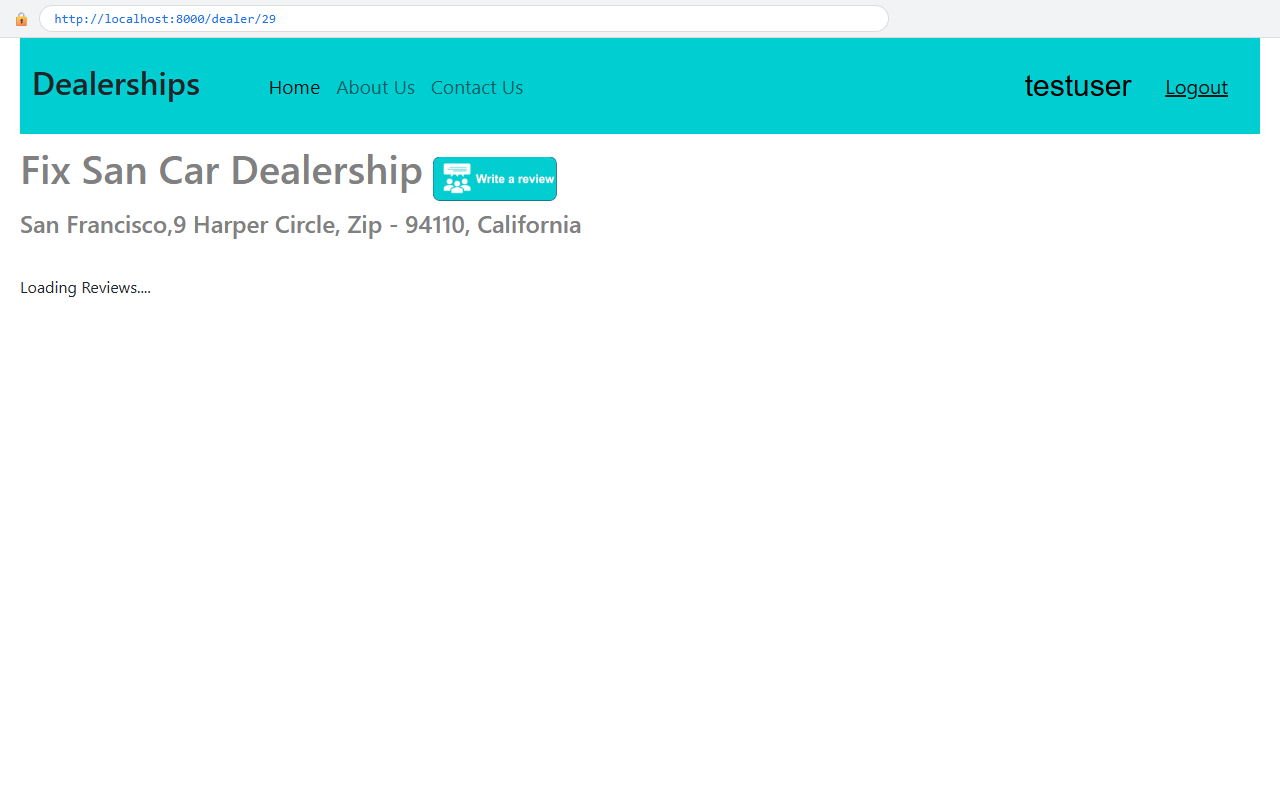
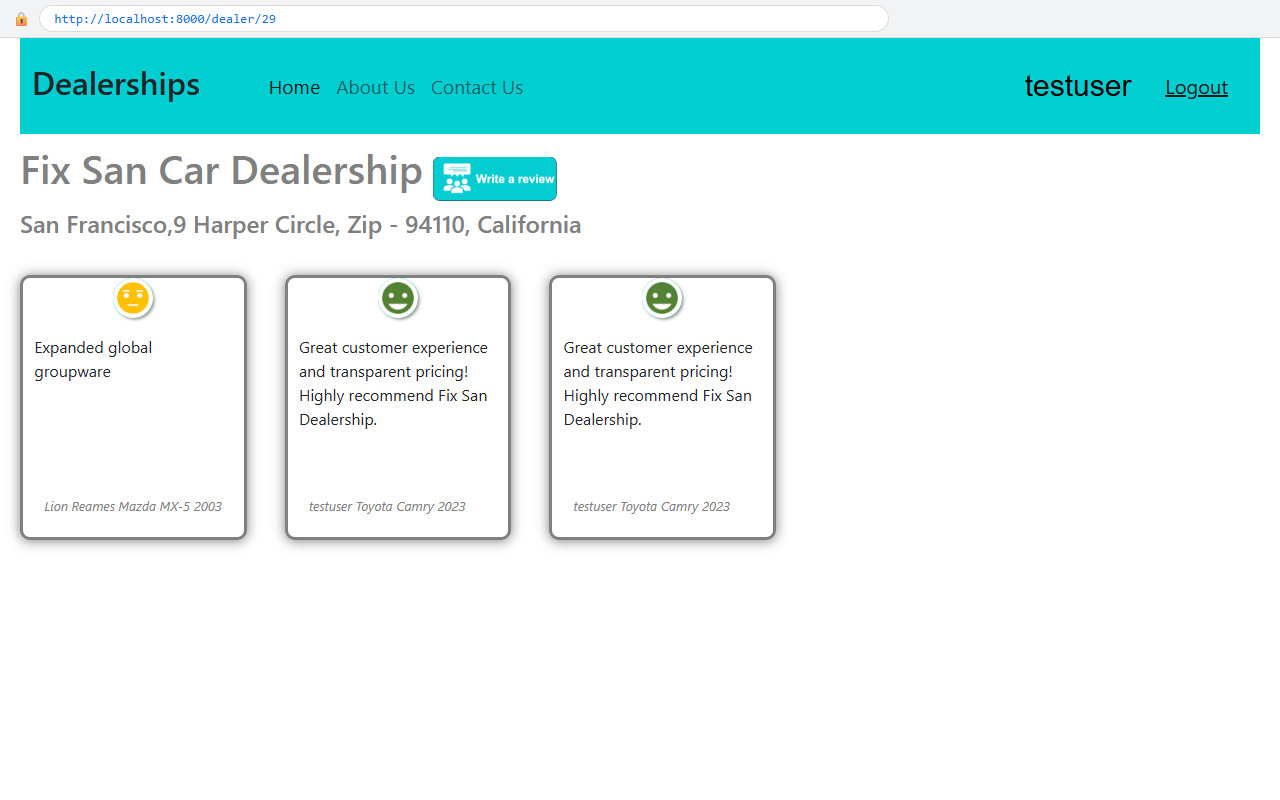
Update About and Contact pages, README title, CI workflow with separate Python and JS lint jobs, and deployed screenshots

Changed region(s): [[0.0, 0.3125, 0.625, 0.6875]]

diff --git a/server/frontend/static/About.html b/server/frontend/static/About.html
@@ -1,13 +1,15 @@
 <!DOCTYPE html>
-<html lang="en">
+<html>
 <head>
   <meta charset="UTF-8">
-  <meta name="viewport" content="width=device-width, initial-scale=1.0">
-  <title>About Us - Dealerships</title>
-  <link rel="stylesheet" href="/static/bootstrap.min.css">
+  <link rel="stylesheet" href="static/style.css">
+  <link rel="stylesheet" href="static/bootstrap.min.css">
   <link rel="stylesheet" href="/static/style.css">
+  <link rel="stylesheet" href="/static/bootstrap.min.css">
+  <link rel="stylesheet" href="style.css">
+  <link rel="stylesheet" href="bootstrap.min.css">
+  <link href="https://cdn.jsdelivr.net/npm/bootstrap@5.0.2/dist/css/bootstrap.min.css" rel="stylesheet">
 </head>
-<body>
 <div>
   <nav class="navbar navbar-expand-lg navbar-light" style="background-color:darkturquoise; height: 1in;">
     <div class="container-fluid">
@@ -20,7 +22,7 @@
           <li class="nav-item">
             <a class="nav-link" style="font-size: larger;" aria-current="page" href="/">Home</a>
           </li>
-          <li class="nav-item">
+          <li class="nav-item active">
             <a class="nav-link active" style="font-size: larger;" href="/about">About Us</a>
           </li>
           <li class="nav-item">
@@ -31,43 +33,42 @@
     </div>
   </nav>
   
-  <div class="card" style="width: 80%;margin: auto; margin-top:5%;">
-    <div class="banner" name="about-header" style="text-align: center; padding: 20px;">
-      <h1>About Us</h1>
-      <p style="font-size: 1.1rem; color: #333;">Welcome to Best Cars dealership, home to the finest vehicles and top-tier customer care. Our team of seasoned automotive specialists is committed to helping you find your dream car with total confidence and peace of mind.</p>
-    </div>
-    <div style="display: flex;flex-direction: row; justify-content: space-around; margin: 20px auto; width: 95%;">
+    <div class="card" style="width: 80%;margin: auto; margin-top:5%;">
+      <div class="banner" name="about-header" style="text-align: center; padding: 20px;">
+        <h1>About Us</h1>
+        <p style="font-size: 1.1rem; color: #333;">Welcome to Best Cars dealership, home to the best cars in North America. We deal in the sale of domestic and imported cars at reasonable prices. Explore our dealership online to learn more about our vehicles and services, and get in touch with our expert team!</p>
+      </div>
+      <div style="display: flex;flex-direction: row; margin:auto; width: 95%; justify-content: space-around;">
       <div class="card" style="width: 30%;">
         <img class="card-img-top" src="/static/person.png" alt="Alex Mercer">
         <div class="card-body">
-          <h4 class="title">Alex Mercer</h4>
-          <p class="text-muted"><strong>General Manager</strong></p>
-          <p class="card-text">Alex brings over 15 years of automotive leadership, driving our customer-first ethos and nationwide operations with excellence.</p>
-          <p><a href="mailto:alex.mercer@dealerships.com">alex.mercer@dealerships.com</a></p>
+          <p class="title">Alex Mercer</p>
+          <p><strong>General Manager</strong></p>
+          <p class="card-text">Alex has over 15 years of automotive leadership experience, overseeing operations and nationwide sales excellence.</p>
+          <p>alex.mercer@dealerships.com</p>
         </div>
       </div>
 
       <div class="card" style="width: 30%;">
         <img class="card-img-top" src="/static/person.png" alt="Sophia Vance">
         <div class="card-body">
-          <h4 class="title">Sophia Vance</h4>
-          <p class="text-muted"><strong>Head of Customer Experience</strong></p>
-          <p class="card-text">Sophia ensures every driver leaves with satisfaction, managing relations and providing comprehensive post-purchase support.</p>
-          <p><a href="mailto:sophia.vance@dealerships.com">sophia.vance@dealerships.com</a></p>
+          <p class="title">Sophia Vance</p>
+          <p><strong>Head of Customer Experience</strong></p>
+          <p class="card-text">Sophia ensures every driver enjoys complete satisfaction with dedicated post-purchase and consultation support.</p>
+          <p>sophia.vance@dealerships.com</p>
         </div>
       </div>
 
       <div class="card" style="width: 30%;">
         <img class="card-img-top" src="/static/person.png" alt="Marcus Bennett">
         <div class="card-body">
-          <h4 class="title">Marcus Bennett</h4>
-          <p class="text-muted"><strong>Lead Vehicle Consultant</strong></p>
-          <p class="card-text">Marcus is an expert in car specs, certified pre-owned selections, and tailoring models to individual customer lifestyles.</p>
-          <p><a href="mailto:marcus.bennett@dealerships.com">marcus.bennett@dealerships.com</a></p>
+          <p class="title">Marcus Bennett</p>
+          <p><strong>Lead Vehicle Consultant</strong></p>
+          <p class="card-text">Marcus is an expert in car specifications, certified pre-owned selections, and matching drivers with their dream vehicles.</p>
+          <p>marcus.bennett@dealerships.com</p>
         </div>
       </div>
     </div>
-  </div>
+    </div>
 </div>
-</body>
 </html>

diff --git a/server/frontend/static/Contact.html b/server/frontend/static/Contact.html
@@ -1,13 +1,15 @@
 <!DOCTYPE html>
-<html lang="en">
+<html>
 <head>
   <meta charset="UTF-8">
-  <meta name="viewport" content="width=device-width, initial-scale=1.0">
-  <title>Contact Us - Dealerships</title>
-  <link rel="stylesheet" href="/static/bootstrap.min.css">
+  <link rel="stylesheet" href="static/style.css">
+  <link rel="stylesheet" href="static/bootstrap.min.css">
   <link rel="stylesheet" href="/static/style.css">
+  <link rel="stylesheet" href="/static/bootstrap.min.css">
+  <link rel="stylesheet" href="style.css">
+  <link rel="stylesheet" href="bootstrap.min.css">
+  <link href="https://cdn.jsdelivr.net/npm/bootstrap@5.0.2/dist/css/bootstrap.min.css" rel="stylesheet">
 </head>
-<body>
 <div>
   <nav class="navbar navbar-expand-lg navbar-light" style="background-color:darkturquoise; height: 1in;">
     <div class="container-fluid">
@@ -18,36 +20,40 @@
       <div class="collapse navbar-collapse" id="navbarText">
         <ul class="navbar-nav me-auto mb-2 mb-lg-0">
           <li class="nav-item">
-            <a class="nav-link" style="font-size: larger;" aria-current="page" href="/">Home</a>
+            <a class="nav-link" style="font-size: larger;" href="/">Home</a>
           </li>
           <li class="nav-item">
             <a class="nav-link" style="font-size: larger;" href="/about">About Us</a>
           </li>
-          <li class="nav-item">
-            <a class="nav-link active" style="font-size: larger;" href="/contact">Contact Us</a>
+          <li class="nav-item active">
+            <a class="nav-link active" style="font-size: larger;" aria-current="page" href="/contact">Contact Us</a>
           </li>
         </ul>
+        <span class="navbar-text">
+          <div class="loginlink" id="loginlogout">
+          </div>
+        </span>
       </div>
     </div>
   </nav>
 
-  <div class="card" style="width: 80%;margin: auto; margin-top:5%; padding: 20px;">
-    <div class="banner" name="contact-header" style="text-align: center; margin-bottom: 20px;">
+  <div class="card" style="width: 80%;margin: auto; margin-top:5%;">
+    <div class="banner" name="contact-header" style="text-align: center; padding: 20px;">
       <h1>Contact Us</h1>
-      <p style="font-size: 1.1rem; color: #555;">We would love to hear from you. Get in touch with our dealership team today!</p>
+      <p style="font-size: 1.1rem; color: #555;">Feel free to reach out to our dealership team with any inquiries, vehicle consultation requests, or customer support.</p>
     </div>
 
-    <div style="display: flex; flex-direction: row; justify-content: space-around; align-items: center; flex-wrap: wrap;">
+    <div style="display: flex; flex-direction: row; justify-content: space-around; align-items: center; margin: 20px auto; width: 95%;">
       <div style="width: 45%; text-align: center;">
-        <img src="/static/contactus.png" alt="Contact Us" style="max-width: 100%; height: auto; border-radius: 8px;">
+        <img class="card-img-top" src="/static/contactus.png" alt="Contact Us" style="max-width: 100%; border-radius: 8px;">
       </div>
-      <div class="card" style="width: 45%; padding: 25px; border-left: 4px solid darkturquoise;">
+      <div class="card" style="width: 45%; padding: 25px;">
         <h4 style="color: darkturquoise; margin-bottom: 20px;">Dealership Headquarters</h4>
         <p><strong>Address:</strong> 100 Motorway Boulevard, Suite 500, Austin, TX 78701</p>
         <p><strong>Phone:</strong> (800) 555-0199 / (512) 555-0144</p>
         <p><strong>Email:</strong> <a href="mailto:support@dealerships.com">support@dealerships.com</a></p>
         <p><strong>Customer Care Hours:</strong></p>
-        <ul style="list-style-type: none; padding-left: 0;">
+        <ul style="padding-left: 20px;">
           <li>Monday - Friday: 8:00 AM - 8:00 PM CST</li>
           <li>Saturday: 9:00 AM - 6:00 PM CST</li>
           <li>Sunday: Closed</li>
@@ -56,5 +62,4 @@
     </div>
   </div>
 </div>
-</body>
 </html>

diff --git a/server/djangoapp/microservices/app.py b/server/djangoapp/microservices/app.py
@@ -18,12 +18,12 @@ def analyze_sentiment(input_txt):
     print(scores)
     pos = float(scores['pos'])
     neg = float(scores['neg'])
-    neu = float(scores['neu'])
-    res = "positive"
-    print("pos neg nue ", pos, neg, neu)
-    if (neg > pos and neg > neu):
+    compound = float(scores['compound'])
+    if compound >= 0.05 or (pos > neg and pos >= 0.1):
+        res = "positive"
+    elif compound <= -0.05 or (neg > pos and neg >= 0.1):
         res = "negative"
-    elif (neu > neg and neu > pos):
+    else:
         res = "neutral"
     res = json.dumps({"sentiment": res})
     print(res)

diff --git a/README.md b/README.md
@@ -1,11 +1,13 @@
-# Dealerships Review Platform - Car Dealerships Application
+# fullstack_developer_capstone
 
-A full-stack web application designed for a national car dealership network. The application enables users to browse dealership locations across the United States, view detailed dealer information, read customer reviews with automated sentiment analysis, and submit new reviews.
+## Dealerships Review Platform - Car Dealerships Application
 
-## Architecture & Technology Stack
+A full-stack web application designed for a national car dealership network as part of the IBM Full Stack Software Developer Capstone project (`fullstack_developer_capstone`).
+
+### Architecture & Technology Stack
 - **Backend**: Django web framework (Python) providing RESTful APIs, user authentication, and data models for car makes and models.
 - **Frontend**: React SPA for dynamic user interactions, dealer listings, filtering by state, and posting customer reviews.
 - **Microservices**:
   - Express & Node.js service paired with MongoDB for dealership and review data persistence.
   - Flask / NLTK Sentiment Analyzer service deployed as a containerized microservice for analyzing sentiment of customer reviews.
-- **DevOps & CI/CD**: GitHub Actions workflow for linting (Flake8 and ESLint/JSHint) and deployment on IBM Cloud Code Engine.
+- **DevOps & CI/CD**: GitHub Actions workflow for Python and JavaScript linting.
